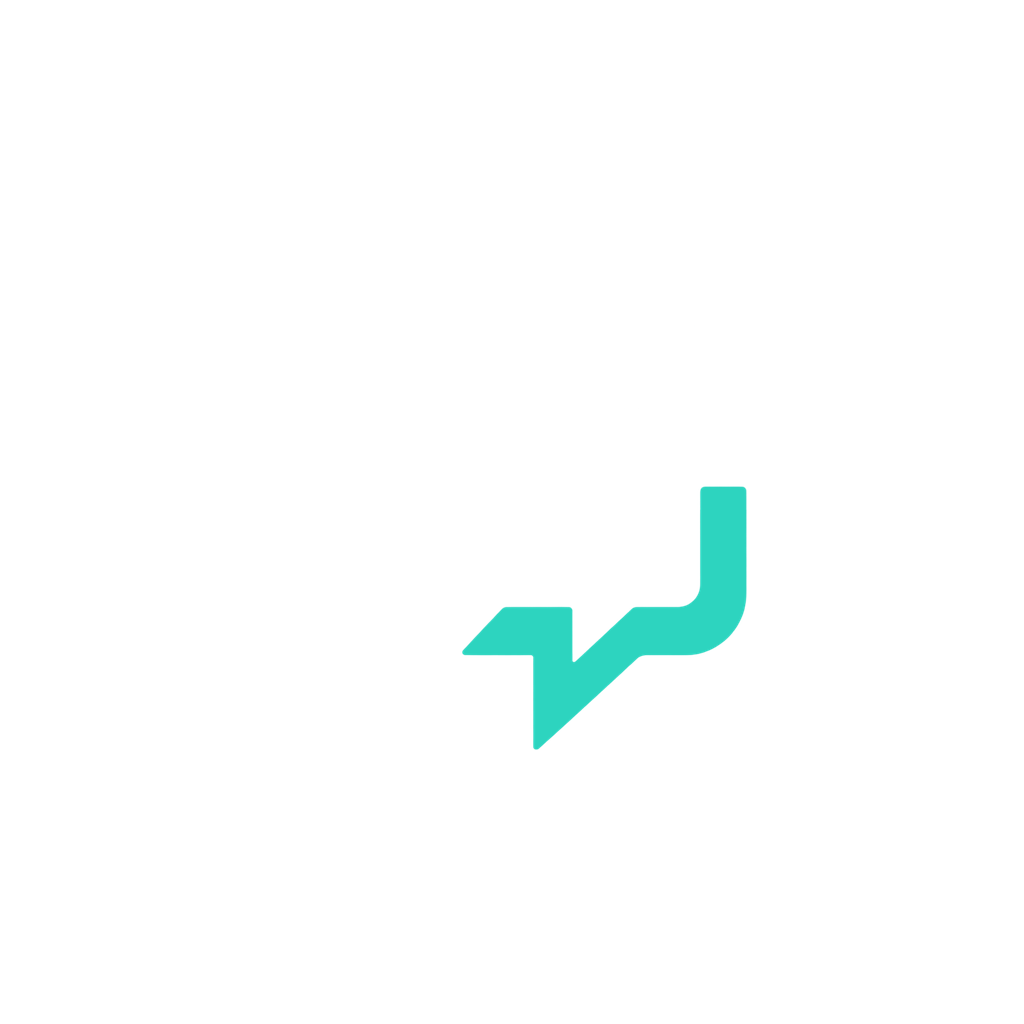
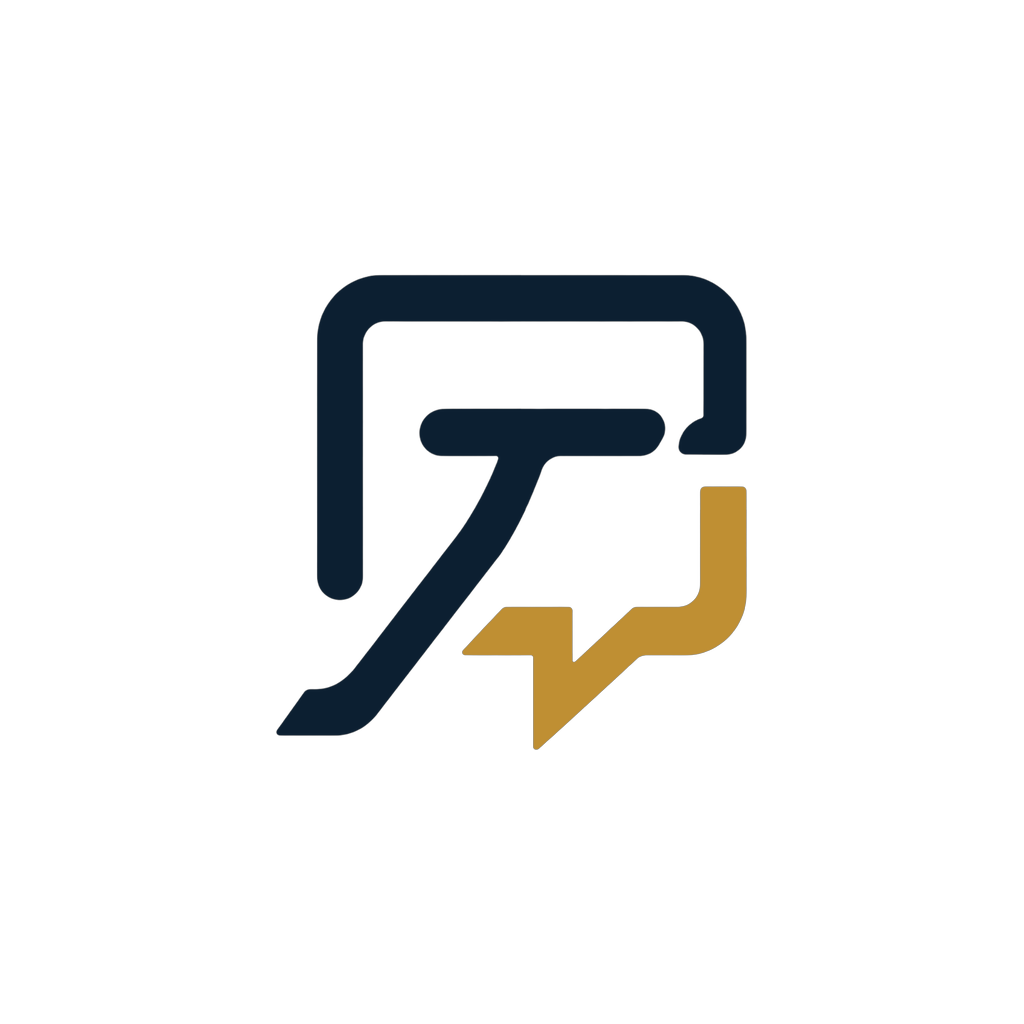
feat: Trackaria Pro cambia de identidad: crema, tinta y oro
La de clientes y la Pro eran el mismo dibujo con el fondo de otro color, y
el acento turquesa sobre el verde de Pro desaparecia a tamano pequeno, que
es justo donde el acento tiene que hacer su trabajo.

Ahora son la una la contraria de la otra: la de clientes se queda en tinta
con la marca en blanco y el acento turquesa, y Pro pasa a crema con la
marca en tinta y el acento en oro. Claro contra oscuro es lo unico que se
distingue de verdad a 48 pixeles en un escritorio lleno de iconos; el color
del acento, a ese tamano, ya casi no se lee. La app de clientes no se toca:
lleva meses publicada y cambiarle el icono es tirar el reconocimiento que
ya tiene.

Sin chapa de «PRO»: tres letras en un rectangulo de ocho pixeles no se leen,
y lo comprobe dibujandolas.

Los cinco archivos salen ahora de `scripts/iconos.py`, con la geometria en
dos mascaras y el color en tres constantes. No habia SVG de la marca en
ningun sitio, asi que cambiar un color era abrir un editor y reexportar
cinco PNG a mano, con uno quedandose siempre con el color viejo.

El arranque pasa a `#f6f8f7`, que es el fondo de la propia app, y no al
crema del icono: lo que se nota al abrir es el salto de color entre la
pantalla de arranque y la primera pantalla, y asi no hay ninguno.

Changed region(s): [[0.25, 0.25, 0.75, 0.75]]

diff --git a/scripts/iconos.py b/scripts/iconos.py
@@ -1,0 +1,140 @@
+"""Genera los iconos de Trackaria Pro a partir de la marca y la paleta.
+
+Por qué esto es un script y no cinco PNG sueltos: la marca no existe en SVG en
+ningún sitio, así que hasta ahora cambiar un color era abrir un editor y volver
+a exportar cinco archivos a mano, con el riesgo de que uno se quedara con el
+color viejo. Aquí la geometría está en dos máscaras (`assets/marca/`) y el color
+en cuatro constantes de abajo: cambiar la identidad es editar una línea y
+ejecutar esto.
+
+Las máscaras son la silueta recortada del logo, separada en trazo y acento, con
+la posición y el tamaño exactos que tenían los iconos originales. No se tocan.
+
+    python3 scripts/iconos.py
+
+Necesita Pillow, que no es dependencia del proyecto —esto no se ejecuta en el
+móvil—: `pip install Pillow` en un entorno aparte.
+"""
+
+import pathlib
+
+from PIL import Image
+
+RAIZ = pathlib.Path(__file__).resolve().parent.parent
+MARCA = RAIZ / 'assets' / 'marca'
+IMAGENES = RAIZ / 'assets' / 'images'
+TIENDA = RAIZ / 'assets' / 'store'
+
+# ── La identidad ────────────────────────────────────────────────────────────
+#
+# Crema con la marca en tinta y el acento en oro. La app de clientes es la
+# contraria —tinta con la marca en blanco y el acento en turquesa— y eso es
+# todo el sistema: la oscura es la del cliente, la clara es la de trabajo.
+#
+# El reparto claro/oscuro es lo que se distingue en un escritorio a 34 píxeles;
+# el acento, a ese tamaño, ya casi no se lee. Por eso el contraste lo lleva el
+# fondo y no el detalle.
+
+CREMA = (244, 239, 227)
+TINTA = (12, 31, 49)
+ORO = (191, 143, 51)
+
+# Lo que ocupa la marca dentro de cada lienzo. Son los dos números que ya tenían
+# los iconos buenos: el de iOS va a sangre y el de Android tiene que caber en la
+# zona segura, porque el lanzador recorta el icono a un círculo.
+PARTE_IOS = 0.613
+PARTE_ANDROID = 0.460
+
+LADO = 1024
+
+
+def mascaras():
+    """El trazo y el acento, cada uno como una máscara de 1024 × 1024."""
+    return (
+        Image.open(MARCA / 'trazo.png').convert('L'),
+        Image.open(MARCA / 'acento.png').convert('L'),
+    )
+
+
+def factor_para(trazo, acento, parte):
+    """Cuánto hay que agrandar la marca para que ocupe esa parte del lienzo.
+
+    Se mide sobre las dos máscaras juntas y no sobre cada una por su lado: el
+    acento es más estrecho que el trazo, y escalar cada pieza por su propio
+    ancho las separaría una de otra.
+    """
+    a, b = trazo.getbbox(), acento.getbbox()
+    ancho = max(a[2], b[2]) - min(a[0], b[0])
+    return (LADO * parte) / ancho
+
+
+def escalar(mascara, factor):
+    """Agranda una máscara alrededor del centro del lienzo, que es donde va la marca."""
+    if abs(factor - 1) < 0.001:
+        return mascara
+    grande = mascara.resize((round(LADO * factor), round(LADO * factor)), Image.LANCZOS)
+    hueco = Image.new('L', (LADO, LADO), 0)
+    hueco.paste(grande, ((LADO - grande.width) // 2, (LADO - grande.height) // 2))
+    return hueco
+
+
+def pintar(lienzo, mascara, color):
+    lienzo.paste(Image.new('RGBA', lienzo.size, color + (255,)), (0, 0), mascara)
+
+
+def icono_ios():
+    """El icono de iOS: cuadrado y a sangre, que el sistema ya lo redondea."""
+    trazo, acento = mascaras()
+    factor = factor_para(trazo, acento, PARTE_IOS)
+    img = Image.new('RGBA', (LADO, LADO), CREMA + (255,))
+    pintar(img, escalar(trazo, factor), TINTA)
+    pintar(img, escalar(acento, factor), ORO)
+    return img.convert('RGB')
+
+
+def primer_plano():
+    """El primer plano de Android: la marca sola, sobre nada."""
+    trazo, acento = mascaras()
+    img = Image.new('RGBA', (LADO, LADO), (0, 0, 0, 0))
+    pintar(img, trazo, TINTA)
+    pintar(img, acento, ORO)
+    return img
+
+
+def monocromo():
+    """La silueta para los iconos con tema de Android, que los tiñe el sistema."""
+    trazo, acento = mascaras()
+    silueta = Image.new('L', (LADO, LADO), 0)
+    silueta.paste(trazo, (0, 0), trazo)
+    silueta.paste(acento, (0, 0), acento)
+    img = Image.new('RGBA', (LADO, LADO), (255, 255, 255, 0))
+    img.putalpha(silueta)
+    return img
+
+
+def splash():
+    """La marca de la pantalla de arranque, del mismo tamaño que el primer plano."""
+    return primer_plano()
+
+
+def icono_de_la_tienda():
+    """El de 512 × 512 de la ficha de Play. Sin transparencia, o lo rechaza."""
+    return icono_ios().resize((512, 512), Image.LANCZOS)
+
+
+def main():
+    TIENDA.mkdir(parents=True, exist_ok=True)
+    salidas = [
+        (IMAGENES / 'icon.png', icono_ios()),
+        (IMAGENES / 'android-icon-foreground.png', primer_plano()),
+        (IMAGENES / 'android-icon-monochrome.png', monocromo()),
+        (IMAGENES / 'splash-icon.png', splash()),
+        (TIENDA / 'play-icon-512.png', icono_de_la_tienda()),
+    ]
+    for ruta, imagen in salidas:
+        imagen.save(ruta)
+        print(f'{ruta.relative_to(RAIZ)}  {imagen.size[0]}×{imagen.size[1]}  {imagen.mode}')
+
+
+if __name__ == '__main__':
+    main()

diff --git a/docs/play-store.md b/docs/play-store.md
@@ -102,6 +102,19 @@ pide ningún permiso para ello. Conviene decirlo tal cual si Play pregunta.
 Las capturas van a 1080 × 1920 y no al tamaño del iPhone porque Play no admite
 proporciones más alargadas que 9:16.
 
+El icono de 512 ya está hecho: `assets/store/play-icon-512.png`. Sale de
+`scripts/iconos.py`, que genera también los del propio proyecto a partir de las
+máscaras de `assets/marca/`. Si alguna vez cambia el color de la marca, se
+cambia ahí y se vuelve a ejecutar: así no se queda ninguno con el color viejo.
+
+**La identidad de Pro es la contraria que la de la app de clientes**: crema con
+la marca en tinta y el acento en oro, frente a tinta con la marca en blanco y el
+acento en turquesa. La oscura es la del cliente, la clara es la de trabajo. Eso
+es lo que las separa a 48 píxeles en el escritorio de un móvil, que es el único
+tamaño al que se decide. No lleva chapa de «PRO»: tres letras en un rectángulo
+de ocho píxeles no se leen.
+
+
 Orden propuesto (las tres primeras son las que decide la gente):
 
 1. Pendiente con dos cosas por hacer — «Lo que está pendiente, de un vistazo»
